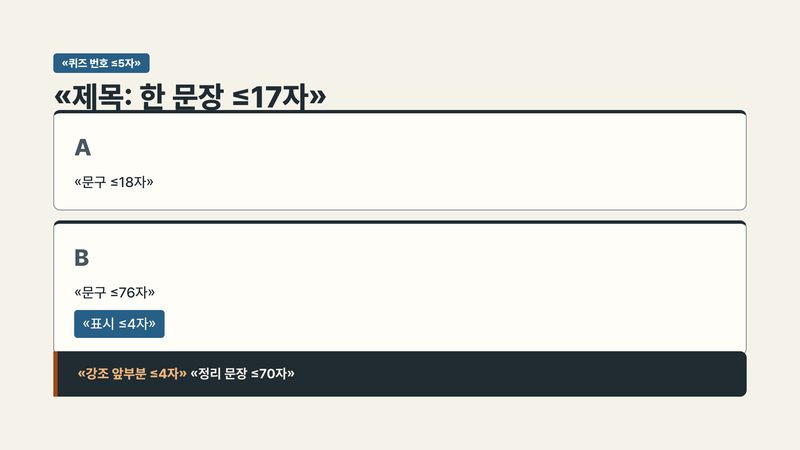
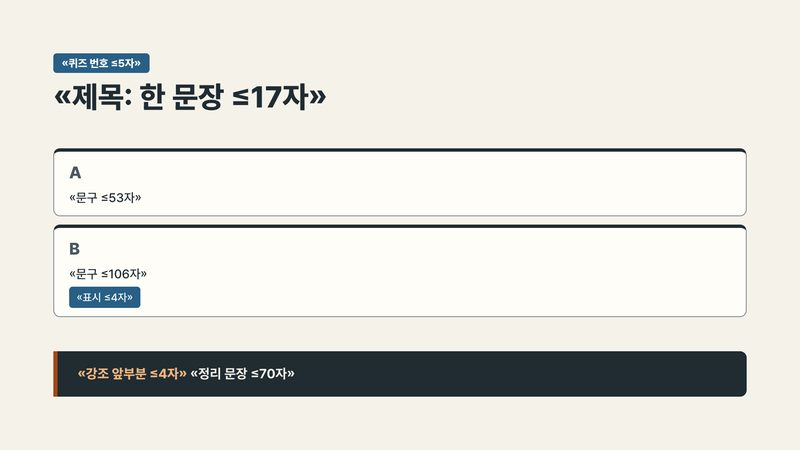
문서·갤러리 동기화: 기법 8종·테스트 384 수치 갱신, quiz-ab 썸네일 253 재촬영 반영

Changed region(s): [[0.0625, 0.3733, 0.9375, 0.7778], [0.0625, 0.2178, 0.9375, 0.28], [0.0625, 0.3111, 0.9375, 0.3422]]

diff --git a/docs/gallery.html b/docs/gallery.html
@@ -406,11 +406,11 @@ footer { margin-top:56px; color:#5a6b76; font-size:13.5px; border-top:1.5px soli
     <div class="meter-wrap" style="flex:2;min-width:0">
       <div class="meter-top"><p class="label">«라벨 ≤15자»</p><p class="meter-use">«문구 ≤4자» <span data-only="0">«값 ≤4자»</span><span data-only="1">«값 ≤4자»</span><span data-only="2">«값 ≤4자»</span><span data-only="3">«값 ≤4자»</span><span data-only="4">«값 ≤4자»</span><span data-only="5">«값 ≤4자»</span><span data-only="6">«값 ≤4자»</span><span data-only="7">«값 ≤4자»</span></p></div>
       <div class="meter-bar">
-        <div class="meter-seg meter-c1" data-step="1" style="width:12%">«문구 ≤4자»</div>
-        <div class="meter-seg meter-c2" data-step="2" style="width:26%">«문구 ≤6자»</div>
-        <div class="meter-seg meter-c3" data-step="3" style="width:30%">«문구 ≤6자»</div>
-        <div class="meter-seg meter-c4" data-step="4" style="width:18%">«문구 ≤6자»</div>
-        <div class="meter-seg meter-c5" data-step="5" style="width:14%">«문구 ≤5자»</div>
+        <div class="meter-seg meter-c1" data-step="1" data-fx="bar-grow" style="width:12%">«문구 ≤4자»</div>
+        <div class="meter-seg meter-c2" data-step="2" data-fx="bar-grow" style="width:26%">«문구 ≤6자»</div>
+        <div class="meter-seg meter-c3" data-step="3" data-fx="bar-grow" style="width:30%">«문구 ≤6자»</div>
+        <div class="meter-seg meter-c4" data-step="4" data-fx="bar-grow" style="width:18%">«문구 ≤6자»</div>
+        <div class="meter-seg meter-c5" data-step="5" data-fx="bar-grow" style="width:14%">«문구 ≤5자»</div>
       </div>
       <div class="meter-axis"><span>«값 ≤4자»</span><span>«짧은 문구 ≤24자»</span></div>
     </div>
@@ -515,12 +515,12 @@ footer { margin-top:56px; color:#5a6b76; font-size:13.5px; border-top:1.5px soli
 </section></div><div class='tpl' data-tpl='grid-wave'><section class="slide" data-archetype="tile-grid" data-variant="cards" style="gap:32px">
   <div class="head"><p class="eyebrow">«파트 표시 ≤21자»</p><h2 class="title">«제목: 한 문장 ≤10자»</h2></div>
   <div class="skg">
-    <div class="sk-card" data-step="1"><div><p class="sk-name">«문구 ≤4자» <span>«문구 ≤5자»</span></p><p class="sk-d">«문구 ≤33자»</p></div><svg viewBox="0 0 100 100" aria-hidden="true"><use href="#i-doc-check" width="100" height="100" style="color:var(--success)"/></svg></div>
-    <div class="sk-card" data-step="1"><div><p class="sk-name">«문구 ≤4자» <span>«문구 ≤5자»</span></p><p class="sk-d">«문구 ≤29자»</p></div><svg viewBox="0 0 100 100" aria-hidden="true"><use href="#i-file" width="100" height="100" style="color:var(--blue)"/></svg></div>
-    <div class="sk-card" data-step="1"><div><p class="sk-name">«문구 ≤6자» <span>«문구 ≤5자»</span></p><p class="sk-d">«문구 ≤28자»</p></div><svg viewBox="0 0 100 100" aria-hidden="true"><use href="#i-slide" width="100" height="100" style="color:var(--accent)"/></svg></div>
-    <div class="sk-card" data-step="2"><div><p class="sk-name">«문구 ≤4자» <span>«문구 ≤4자»</span></p><p class="sk-d">«문구 ≤32자»</p></div><svg viewBox="0 0 100 100" aria-hidden="true"><use href="#i-pdf" width="100" height="100" style="color:var(--danger)"/></svg></div>
-    <div class="sk-card" data-step="2"><div><p class="sk-name">«문구 ≤8자» <span>«문구 ≤16자»</span></p><p class="sk-d">«문구 ≤26자»</p></div><svg viewBox="0 0 100 100" aria-hidden="true"><use href="#i-trophy" width="100" height="100" style="color:var(--blue)"/></svg></div>
-    <div class="sk-card sk-own" data-step="3"><div><p class="sk-name">«문구 ≤10자»</p><p class="sk-d">«문구 ≤36자»</p></div><svg viewBox="0 0 100 100" aria-hidden="true"><use href="#i-building" width="100" height="100" style="color:var(--accent)"/></svg></div>
+    <div class="sk-card" data-step="1" data-fx="card-deal"><div><p class="sk-name">«문구 ≤4자» <span>«문구 ≤5자»</span></p><p class="sk-d">«문구 ≤33자»</p></div><svg viewBox="0 0 100 100" aria-hidden="true"><use href="#i-doc-check" width="100" height="100" style="color:var(--success)"/></svg></div>
+    <div class="sk-card" data-step="1" data-fx="card-deal"><div><p class="sk-name">«문구 ≤4자» <span>«문구 ≤5자»</span></p><p class="sk-d">«문구 ≤29자»</p></div><svg viewBox="0 0 100 100" aria-hidden="true"><use href="#i-file" width="100" height="100" style="color:var(--blue)"/></svg></div>
+    <div class="sk-card" data-step="1" data-fx="card-deal"><div><p class="sk-name">«문구 ≤6자» <span>«문구 ≤5자»</span></p><p class="sk-d">«문구 ≤28자»</p></div><svg viewBox="0 0 100 100" aria-hidden="true"><use href="#i-slide" width="100" height="100" style="color:var(--accent)"/></svg></div>
+    <div class="sk-card" data-step="2" data-fx="card-deal"><div><p class="sk-name">«문구 ≤4자» <span>«문구 ≤4자»</span></p><p class="sk-d">«문구 ≤32자»</p></div><svg viewBox="0 0 100 100" aria-hidden="true"><use href="#i-pdf" width="100" height="100" style="color:var(--danger)"/></svg></div>
+    <div class="sk-card" data-step="2" data-fx="card-deal"><div><p class="sk-name">«문구 ≤8자» <span>«문구 ≤16자»</span></p><p class="sk-d">«문구 ≤26자»</p></div><svg viewBox="0 0 100 100" aria-hidden="true"><use href="#i-trophy" width="100" height="100" style="color:var(--blue)"/></svg></div>
+    <div class="sk-card sk-own" data-step="3" data-fx="card-deal"><div><p class="sk-name">«문구 ≤10자»</p><p class="sk-d">«문구 ≤36자»</p></div><svg viewBox="0 0 100 100" aria-hidden="true"><use href="#i-building" width="100" height="100" style="color:var(--accent)"/></svg></div>
   </div>
   <div class="callout" data-step="4" style="font-size:28px;padding:24px 32px"><b>«강조 앞부분 ≤8자»</b> «정리 문장 ≤74자»</div>
   <aside class="notes">«발표자 노트 110~450자: 화면 설명 → 진행 지시(→ 누를 때마다…) → 화면에 없는 보충 사실과 출처 → 다음 장 연결»</aside>
@@ -743,11 +743,11 @@ footer { margin-top:56px; color:#5a6b76; font-size:13.5px; border-top:1.5px soli
     </div>
   </div>
   <aside class="notes">«발표자 노트 110~450자: 화면 설명 → 진행 지시(→ 누를 때마다…) → 화면에 없는 보충 사실과 출처 → 다음 장 연결»</aside>
-</section></div><div class='tpl' data-tpl='choice-verdict'><section class="slide" data-archetype="quiz-ab">
+</section></div><div class='tpl' data-tpl='choice-verdict'><section class="slide" data-archetype="quiz-ab" style="gap:20px">
   <div class="head"><p class="qtag" style="align-self:flex-start">«퀴즈 번호 ≤5자»</p><h2 class="title">«제목: 한 문장 ≤17자»</h2></div>
-  <div class="col" style="flex:1;min-height:0;gap:24px;justify-content:center">
-    <div class="opt wrong" data-lit="1"><p class="key">A</p><p>«문구 ≤18자»</p></div>
-    <div class="opt right" data-lit="1"><p class="key">B</p><p>«문구 ≤76자»</p><p class="badge" data-step="1">«표시 ≤4자»</p></div>
+  <div class="col" style="flex:1;min-height:0;gap:20px;justify-content:center">
+    <div class="opt wrong" data-lit="1" style="flex:none;padding:20px 36px;gap:8px"><p class="key" style="font-size:40px">A</p><p style="font-size:30px">«문구 ≤53자»</p></div>
+    <div class="opt right" data-lit="1" style="flex:none;padding:20px 36px;gap:8px"><p class="key" style="font-size:40px">B</p><p style="font-size:30px">«문구 ≤106자»</p><p class="badge" data-step="1" style="font-size:26px;padding:6px 18px">«표시 ≤4자»</p></div>
   </div>
   <div class="callout" data-step="1" style="font-size:32px"><b>«강조 앞부분 ≤4자»</b> «정리 문장 ≤70자»</div>
   <aside class="notes">«발표자 노트 110~450자: 화면 설명 → 진행 지시(→ 누를 때마다…) → 화면에 없는 보충 사실과 출처 → 다음 장 연결»</aside>
@@ -1974,7 +1974,10 @@ footer { margin-top:56px; color:#5a6b76; font-size:13.5px; border-top:1.5px soli
   // becomes visible (slide entry when visible at step 0, or at the step whose
   // data-step/data-add/data-only reveals it). Static modes and revisited
   // (back) states show the authored final DOM — overlays stay, text is intact.
-  const FX={strike:'m3',stamp:'m3',mark:'m4',count:'m4',travel:'m4',block:'m4',type:1500,press:'m2','scatter-gather':'m4','slice-reveal':'m4','row-mask-rise':'m3','weight-wave':'m3','rack-focus':'m3'};
+  const FX={strike:'m3',stamp:'m3',mark:'m4',count:'m4',travel:'m4',block:'m4',type:1500,press:'m2','scatter-gather':'m4','slice-reveal':'m4','row-mask-rise':'m3','weight-wave':'m3','rack-focus':'m3','bar-grow':'m3','card-deal':'m3',blinds:'m4'};
+  // A declared transform-reveal technique owns the element's own entrance: the
+  // archetype signature must not stack a second transform animation on it.
+  const FX_OWN_TRANSFORM=new Set(['bar-grow','card-deal']);
   function animateMs(el,frames,ms,ease='e-out',delay=0,cleanup){
     if(!el||staticMode()||!el.animate){if(cleanup)cleanup();return null;}
     const a=el.animate(frames,{duration:ms,easing:token('--'+ease,el),delay,fill:'backwards'});
@@ -2001,7 +2004,7 @@ footer { margin-top:56px; color:#5a6b76; font-size:13.5px; border-top:1.5px soli
     const name=el.dataset.fx;
     if(name==='strike')fxOverlay(el,'ed-fx-strike');
     else if(name==='mark')fxOverlay(el,'ed-fx-mark');
-    // count/type/travel/block/stamp/press: the authored DOM is already final.
+    // Other kinds leave no overlay: the authored DOM is already final.
   }
   function fxCount(el,at){
     const orig=el.textContent;
@@ -2038,7 +2041,7 @@ footer { margin-top:56px; color:#5a6b76; font-size:13.5px; border-top:1.5px soli
     const spans=all('.ed-fx-ch',el);
     spans.forEach((s,k)=>animateMs(s,[{visibility:'hidden'},{visibility:'visible'}],1,'e-out',at+k*rate,k===len-1?restore:null));
   }
-  // ---- TASK-motions: shared technique vocabulary (5 kinds) ----
+  // ---- TASK-motions + TASK-fx-absorb: shared technique vocabulary (8 kinds) ----
   // Each one is a finite, cancellable opt-in effect; static modes keep the
   // authored final DOM untouched. Letter splits match kinetic() exactly —
   // .ed-letter spans for glyphs, plain text nodes for spaces — so the settled
@@ -2109,6 +2112,58 @@ footer { margin-top:56px; color:#5a6b76; font-size:13.5px; border-top:1.5px soli
     const scope=el.closest('.chk')||el.closest('.slide')||document;
     if(el.dataset.fxDim)all(el.dataset.fxDim,scope).slice(0,3).forEach(d=>animateMs(d,[{filter:'blur(0px)'},{filter:'blur(3px)',offset:.4},{filter:'blur(3px)',offset:.72},{filter:'blur(0px)'}],ms*1.8,'e-inout',at));
   }
+  // ---- TASK-fx-absorb: three techniques ported by concept from the klic
+  // motion catalogue (own implementation; no code copied) ----
+  // bar-grow: a bar, gauge or progress strip grows from its fixed base edge
+  // into the authored size — the element's own width/height IS the final state.
+  // The authored transform-origin picks the axis (bottom anchors a vertical
+  // grow, left a horizontal one; top/right follow the same rule). Without an
+  // edge anchor the aspect ratio decides: taller than wide grows upward,
+  // wider than tall grows rightward, and the base edge is set for the play.
+  function fxBarGrow(el,at){
+    const base=getComputedStyle(el).transform,suffix=base==='none'?'':' '+base;
+    const w=el.offsetWidth||el.getBoundingClientRect().width||0,h=el.offsetHeight||el.getBoundingClientRect().height||0;
+    const o=getComputedStyle(el).transformOrigin.split(' ').map(parseFloat);
+    const edge=Math.abs(o[1]-h)<2?'bottom':Math.abs(o[1])<2?'top':Math.abs(o[0])<2?'left':Math.abs(o[0]-w)<2?'right':'';
+    const vertical=edge?edge==='bottom'||edge==='top':h>w;
+    if(!edge)el.style.transformOrigin=vertical?'center bottom':'left center';
+    const axis=vertical?'scaleY':'scaleX';
+    const peers=all('[data-fx="bar-grow"]',el.closest('.slide')||document),i=Math.max(0,peers.indexOf(el));
+    animateMs(el,[{transform:`${axis}(0)`+suffix},{transform:`${axis}(1)`+suffix}],duration(FX['bar-grow'],el),'e-spring',at+Math.min(i,6)*duration('m1',el)/4);
+  }
+  // card-deal: a card is dealt out of a slightly stacked pile — it slides from
+  // a small offset toward the pile's centre with a hint of index-hashed tilt
+  // and settles square (final rotation 0). Offsets stay within ±24px/±4deg.
+  function fxDeal(el,at){
+    const base=getComputedStyle(el).transform,suffix=base==='none'?'':' '+base;
+    const pile=el.parentElement?el.parentElement.getBoundingClientRect():null,r=el.getBoundingClientRect();
+    let dx=0,dy=0;
+    if(pile&&r.width&&r.height){
+      dx=Math.max(-24,Math.min(24,(pile.left+pile.width/2-(r.left+r.width/2))*.35));
+      dy=Math.max(-24,Math.min(24,(pile.top+pile.height/2-(r.top+r.height/2))*.35));
+    }
+    const peers=all('[data-fx="card-deal"]',el.closest('.slide')||document),i=Math.max(0,peers.indexOf(el));
+    const rot=((i*29)%7-3)*4/3;
+    animateMs(el,[{transform:`translate(${dx.toFixed(1)}px,${dy.toFixed(1)}px) rotate(${rot.toFixed(2)}deg)`+suffix,opacity:0},{transform:'translate(0px,0px) rotate(0deg)'+suffix,opacity:1}],duration(FX['card-deal'],el),'e-spring',at+Math.min(i,6)*duration('m1',el)/4);
+  }
+  // blinds: the element is cut into horizontal strips that open top to bottom
+  // in stagger — the clip-path exception slice-reveal already owns, so the
+  // bands are one multi-rect polygon whose per-band edge sweeps down in turn.
+  // One large-area element at a time; strip edges collapse to zero-height
+  // rects until their window so the vertex count never changes.
+  function fxBlinds(el,at){
+    if(!CSS.supports('clip-path','polygon(0% 0%,100% 0%,100% 100%,0% 100%)'))return;
+    const N=5,stagger=.12,span=.52;
+    const times=new Set([0,1]);for(let i=0;i<N;i++){times.add(i*stagger);times.add(Math.min(1,i*stagger+span));}
+    const frames=[...times].sort((a,b)=>a-b).map(t=>{
+      const pts=[];for(let i=0;i<N;i++){
+        const y0=i*100/N,y1=y0+Math.min(1,Math.max(0,(t-i*stagger)/span))*100/N;
+        pts.push(`0% ${y0.toFixed(2)}%`,`100% ${y0.toFixed(2)}%`,`100% ${y1.toFixed(2)}%`,`0% ${y1.toFixed(2)}%`);
+      }
+      return{clipPath:`polygon(${pts.join(',')})`,offset:t};
+    });
+    animateMs(el,frames,duration(FX.blinds,el),'e-out',at);
+  }
   function fxFire(el){
     const name=el.dataset.fx;
     if(!FX[name])return false;
@@ -2130,6 +2185,9 @@ footer { margin-top:56px; color:#5a6b76; font-size:13.5px; border-top:1.5px soli
       case 'row-mask-rise':fxRowMask(el,at);break;
       case 'weight-wave':fxWeight(el,at);break;
       case 'rack-focus':fxRack(el,at);break;
+      case 'bar-grow':fxBarGrow(el,at);break;
+      case 'card-deal':fxDeal(el,at);break;
+      case 'blinds':fxBlinds(el,at);break;
     }
     return 'fx-'+name;
   }
@@ -2179,7 +2237,8 @@ footer { margin-top:56px; color:#5a6b76; font-size:13.5px; border-top:1.5px soli
     if(entry)titleImpact(s,arch);
     if(arch==='before-after'||arch==='worked-example')semanticScene(s,arch,step,entry);
     else{
-      targets.forEach((e,i)=>{e.style.transformOrigin=arch==='meter'?'left center':arch==='sequence'?'left bottom':'center';
+      targets.forEach((e,i)=>{if(FX_OWN_TRANSFORM.has(e.dataset.fx))return;
+        e.style.transformOrigin=arch==='meter'?'left center':arch==='sequence'?'left bottom':'center';
         // A newly revealed chat bubble is not a pin: pin overshoot crosses the
         // clipped chat viewport. Keep the bubble inside its final footprint.
         const frames=arch==='mock-legend'&&!e.matches('.mk')?['scale(.96)','scale(1)']:r.frames(i);

diff --git a/README.md b/README.md
@@ -11,7 +11,7 @@
 [![Ships](https://img.shields.io/badge/산출물-단일%20HTML%20%C2%B7%20외부의존%200-0e7d95?style=flat-square)](#2-한눈에-보는-구성)
 [![Assets](https://img.shields.io/badge/%EB%A6%AC%EC%86%8C%EC%8A%A4%ED%8C%A9-%EC%84%A4%EA%B3%84%208%EC%A2%85%20%C2%B7%20%ED%9D%90%EB%A6%84%208%EC%A2%85-2f6fb0?style=flat-square)](docs/gallery.html)
 [![Assets](https://img.shields.io/badge/%EC%9E%A5%20%EB%B0%B0%EC%B9%98-41%EA%B3%84%EC%97%B4%20231%EB%B3%80%ED%98%95-e8772e?style=flat-square)](docs/gallery.html)
-[![Tests](https://img.shields.io/badge/%ED%9A%8C%EA%B7%80-354%20tests%20%C2%B7%20pack%2064%2F64-59c3d6?style=flat-square)](#5-검증--검사기는-계약-품질-판단은-사람)
+[![Tests](https://img.shields.io/badge/%ED%9A%8C%EA%B7%80-384%20tests%20%C2%B7%20pack%2064%2F64-59c3d6?style=flat-square)](#5-검증--검사기는-계약-품질-판단은-사람)
 
 ![데모](docs/demo-quiz.gif)
 
@@ -66,7 +66,7 @@
 
 <img src="docs/diagrams/diagram-pipeline.png" width="46%" alt="저작 파이프라인 도식 — 요청→라우팅→legacy/팩 경로→조립→검사"> <img src="docs/diagrams/diagram-cross.png" width="52.6%" alt="완성 덱 단면 도식 — 슬라이드·단계공개·노트·퀴즈·자습·출처 층위">
 
-**완성 덱 하나의 단면** — 파일 하나에 교육 자료 전체 층위: 슬라이드(253변형·8테마·모션 실행 이름 42종+기법 5종) / 단계 공개 / 발표자 노트(60자 이상 검사) / 확인 문제·퀴즈 / 자습 모드·용어집·검색 / 출처·검증 층. [**▶ 자산 갤러리에서 실물 315점 보기**](https://insightflo.github.io/edu-deck-skills/docs/gallery.html)
+**완성 덱 하나의 단면** — 파일 하나에 교육 자료 전체 층위: 슬라이드(253변형·8테마·모션 실행 이름 42종+기법 8종) / 단계 공개 / 발표자 노트(60자 이상 검사) / 확인 문제·퀴즈 / 자습 모드·용어집·검색 / 출처·검증 층. [**▶ 자산 갤러리에서 실물 315점 보기**](https://insightflo.github.io/edu-deck-skills/docs/gallery.html)
 
 ## 3. 자산 갤러리 — 재료 전부
 
@@ -79,7 +79,7 @@
 | 리소스팩 설계 | **8종** — 배치 문법 자체가 다름(마주본 면·사례 기록·편집 지면…) · 흐름 8종(수업 뼈대)과 64조합 전수 빌드·검사(64/64) | 설계별 표지 + **흐름 8종 실제 예시 덱**(주제 동일) |
 | 장 배치 조각 | **52계열 253변형** | 썸네일 + 253장 열람 덱 |
 | 테마 | **8종** | 같은 덱 3장(표지·목차·내용) × 전 테마 매트릭스 + 같은 장면 비교 |
-| 모션 시그니처 | **실행 이름 42종 전체 + 공통 기법 5종**(data-fx) | 카드를 스크롤하면 실물이 그 자리에서 자동 재생(녹화물 없음) |
+| 모션 시그니처 | **실행 이름 42종 전체 + 공통 기법 8종**(data-fx) | 카드를 스크롤하면 실물이 그 자리에서 자동 재생(녹화물 없음) |
 | 표지 | 직접 설계 + 카탈로그 16종 | 아키타입 갤러리 |
 
 이전 수동 제작 소개 영상(showreel mp4·GIF)은 [코드 재생 소개 쇼](docs/intro.html)로 교체했습니다 — `promo/make_intro.py`가 덱을 조립하고 쇼 런처를 주입해 생성합니다.
@@ -109,14 +109,14 @@ git clone https://github.com/insightflo/edu-deck-skills.git ~/.pi/agent/skills/e
 
 검사 통과는 기술 계약의 통과일 뿐 디자인 품질의 보장이 아닙니다. 시각 위계·가독성·메시지 전달은 캡처·축소판을 직접 보고 판단하고, 취향 경고만으로 좋은 디자인을 버리지 않습니다(`shared/references/authoring.md` 6절).
 
-저장소 회귀: 단위 테스트 367개(렌더 포함, skip 1), 리소스팩 브라우저 64/64 조합, 대비 매트릭스 238셀.
+저장소 회귀: 단위 테스트 384개(렌더 포함), 리소스팩 브라우저 64/64 조합, 대비 매트릭스 238셀.
 
 완성 덱은 브라우저에서 `덱.html?sheet` 로 전 장을 한 화면에(전개된 완성 모습+번호표) 검수하고, `?shot=N` 으로 한 장만 떼어 캡처할 수 있습니다(저자 검수 뷰어 — 발표·인쇄 동작은 그대로).
 
 ```bash
 cd edu-deck/shared
 EDU_DECK_TEST_DECK=../../examples/states-quiz/물질의상태변화-단원평가퀴즈-교육자료.html \
-  python3 -m unittest discover -s dev -p 'test_*py'   # Ran 354 tests OK
+  python3 -m unittest discover -s dev -p 'test_*py'   # Ran 384 tests OK
 python3 scripts/check_deck.py ../../examples/states-quiz/물질의상태변화-단원평가퀴즈-교육자료.html   # 기본: 안전 가드
 python3 scripts/check_deck.py --style <덱.html>   # 취향 상세
 ```
